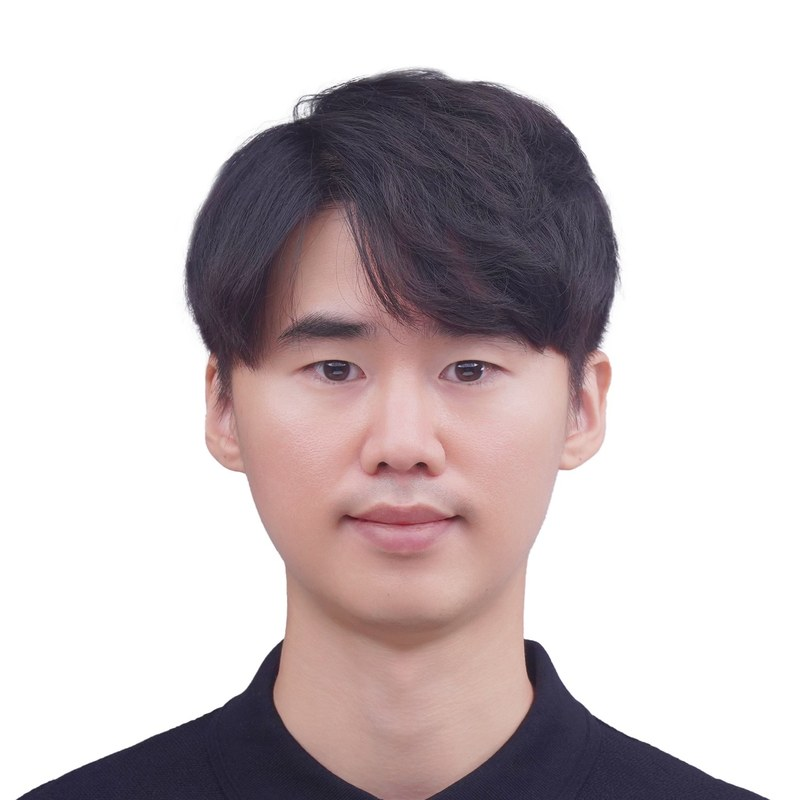
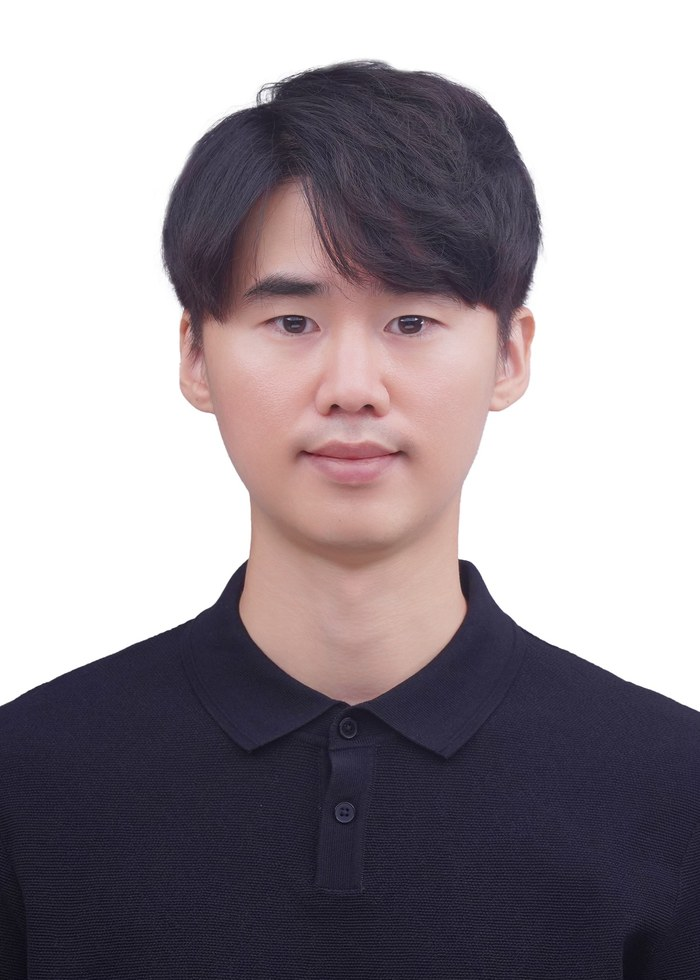
Keep photo proportions; explain the badge colours
The avatar was a square, so a 5:7 portrait got cropped, which reads
badly on a face. Width is fixed now and height follows the photo. The
PI's photo was regenerated from the original without the crop, and
the blank stand-in takes a 5:7 ratio so it lines up with real photos.

The publications page opens with a legend. Badge colour carries one
distinction, conference against journal, and nothing said so.

diff --git a/_sass/_custom.scss b/_sass/_custom.scss
@@ -248,18 +248,22 @@ body {
   }
 }
 
-/* Photo and text were nearly touching, and the avatar was pinned at 96px.
-   Scale it with the viewport and open up the gap. */
+/* Photos keep their own proportions. Forcing a square meant cropping a 5:7
+   portrait, which reads badly on a face. Width is fixed so the roster lines
+   up; height follows whatever the photo is. */
 .person-avatar {
-  width: clamp(104px, 11vw, 150px);
-  height: clamp(104px, 11vw, 150px);
+  width: clamp(96px, 9vw, 124px);
+  height: auto;
   flex: 0 0 auto;
-  object-fit: cover;
   border-radius: 6px;
   border: 1px solid var(--global-divider-color);
+  display: block;
 }
 
+/* The blank stand-in has no photo to take a ratio from, so it is given the
+   5:7 of a Korean ID photo to sit alongside the real ones. */
 .person-avatar--blank {
+  aspect-ratio: 5 / 7;
   display: flex;
   align-items: center;
   justify-content: center;
@@ -455,4 +459,48 @@ html[data-theme="dark"] footer.fixed-bottom a {
   .notice-date {
     flex-basis: auto;
   }
+}
+
+/* ---------------------------------------------------------------------------
+ * 13. Publication list legend
+ *
+ * The badge colour carries one distinction only, conference against journal.
+ * Nothing on the page said so, so the reader had to infer it.
+ * ------------------------------------------------------------------------ */
+
+.pub-legend {
+  display: flex;
+  flex-wrap: wrap;
+  gap: 1.25rem;
+  align-items: center;
+  margin: 0 0 0.5rem;
+  font-size: 0.92rem;
+  color: var(--global-text-color-light);
+}
+
+.pub-legend-key {
+  display: inline-flex;
+  align-items: center;
+  gap: 0.45rem;
+}
+
+.pub-legend-swatch {
+  display: inline-block;
+  width: 2.1rem;
+  height: 0.95rem;
+  border-radius: 3px;
+}
+
+.pub-legend-swatch--conf {
+  background: #00539b;
+}
+
+.pub-legend-swatch--journal {
+  background: #5a6b7a;
+}
+
+.pub-legend-note {
+  font-size: 0.92rem;
+  color: var(--global-text-color-light);
+  margin: 0 0 1.75rem;
 }

diff --git a/_pages/publications.md b/_pages/publications.md
@@ -6,6 +6,13 @@ nav: true
 nav_order: 3
 ---
 
+<div class="pub-legend">
+  <span class="pub-legend-key"><span class="pub-legend-swatch pub-legend-swatch--conf"></span>Conference</span>
+  <span class="pub-legend-key"><span class="pub-legend-swatch pub-legend-swatch--journal"></span>Journal</span>
+</div>
+
+<p class="pub-legend-note">Markers under a badge give the venue's standing. Lab members are shown in colour.</p>
+
 <div class="publications">
 
 {% bibliography %}
